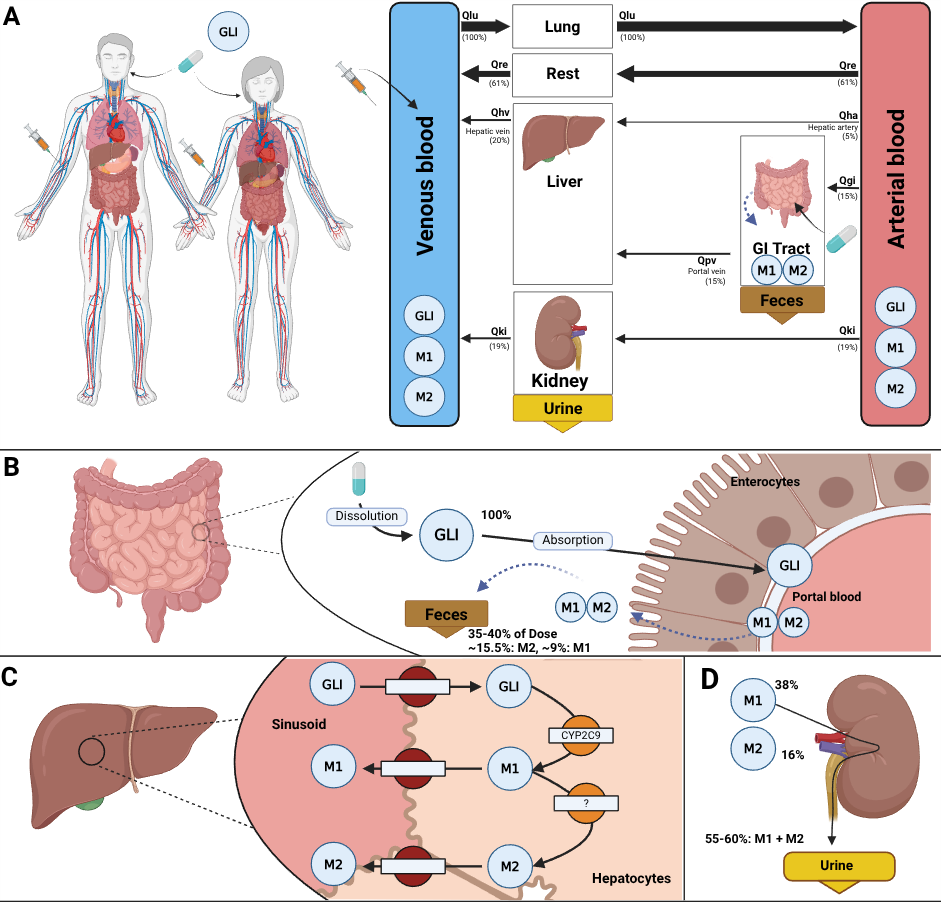
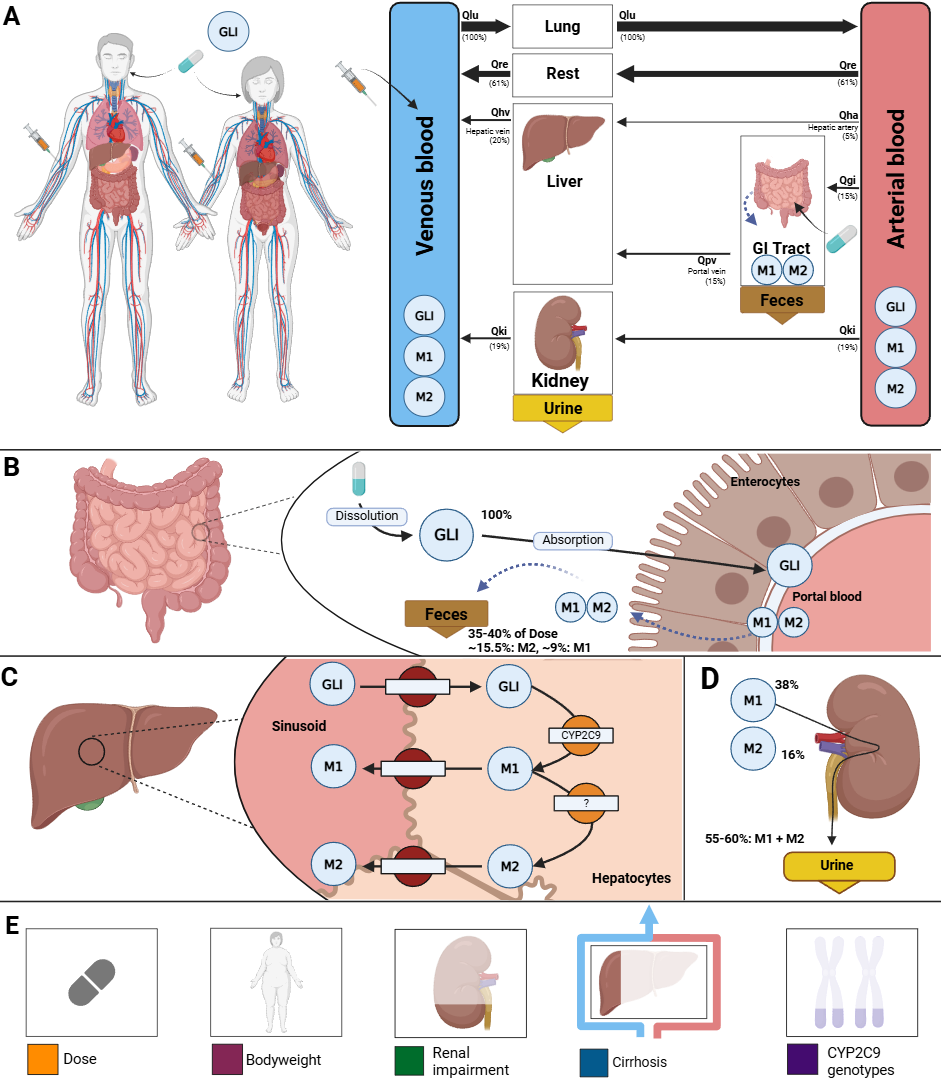
Work on layout

diff --git a/src/app.py b/src/app.py
@@ -4,19 +4,14 @@ import marimo
 
 __generated_with = "0.13.15"
 app = marimo.App(
-    app_title="Glimepiride Digital Twin",
+    width="full",
+    app_title="Glimepiride Webapp",
     layout_file="layouts/app.grid.json",
 )
 
 with app.setup:
     import marimo as mo
     import pandas as pd
-    import numpy as np
-    mo.md("""
-          <h1 style="margin-bottom: 5px;"><b>Glimepiride Digital Twin</b></h1>
-          <h3 style="margin-top: 0;">A simulation tool for exploring patient-specific pharmacokinetics.</h3>
-          """
-          )
 
 
 @app.cell
@@ -185,7 +180,6 @@ def cyp2c9_allele_sliders(
         stop=100,
         value=allele1_activity(),
         step=1.0,
-        label="CYP2C9 Allele 1 Activity [%]",
         on_change=set_allele1_activity
     )
 
@@ -194,7 +188,6 @@ def cyp2c9_allele_sliders(
         stop=100,
         value=allele2_activity(),
         step=1.0,
-        label="CYP2C9 Allele 2 Activity [%]",
         on_change=set_allele2_activity
     )
 
@@ -208,7 +201,6 @@ def cirrhosis_slider(cirrhosis_degree, set_cirrhosis_degree):
         stop=0.95,
         value=cirrhosis_degree(),
         step=0.01,
-        label="Cirrhosis Degree [-]",
         on_change=set_cirrhosis_degree
     )
 
@@ -222,7 +214,6 @@ def crcl_slider(crcl_value, set_crcl_value):
         stop=110,
         value=crcl_value(),
         step=1.0,
-        label="Creatinine Clearance [mL/min]",
         on_change=set_crcl_value
     )
     return (crcl,)
@@ -236,7 +227,6 @@ def dose_slider(dose_value, set_dose_value):
         value=dose_value(),
         on_change=set_dose_value,
         step=1.0,
-        label="Glimepiride Dose [mg]"
     )
     return (PODOSE_gli,)
 
@@ -248,7 +238,6 @@ def bodyweight_slider(bw_value, set_bw_value):
         stop=170.0,
         value=bw_value(),
         on_change=set_bw_value,
-        label="Bodyweight [kg]"
     )
 
     return (BW,)
@@ -418,18 +407,51 @@ def display_with_tabs(
     renal_impairment_dropdown,
     saved_patients,
 ):
+    # Fixed width for all labels
+    label_style = {"width": "240px", "text-align": "right", "padding-right": "30px"}
+
     # Input Patient Data
     input_patient_content = mo.vstack([
-        PODOSE_gli,
-        BW,
+
+        mo.md("####**Anthropometrics & Dose**"),
+
+        mo.hstack([
+            mo.md("Glimepiride Dose [mg]").style(label_style),
+            PODOSE_gli.style({"width": "550px"})
+        ], align="center", gap=0),
+
+        mo.hstack([
+            mo.md("Bodyweight [kg]").style(label_style),
+            BW.style({"width": "550px"})
+        ], align="center", gap=0),
 
         mo.md("####**Organ Function**"),
-        mo.hstack([crcl, renal_impairment_dropdown], gap=5),
-        mo.hstack([f_cirrhosis, cirrhosis_dropdown], gap=5),
+
+        mo.hstack([
+            mo.md("Creatinine Clearance [mL/min]").style(label_style),
+            crcl.style({"width": "360px"}),
+            renal_impairment_dropdown
+        ], align="center", gap=0),
+
+        mo.hstack([
+            mo.md("Cirrhosis Degree [-]").style(label_style),
+            f_cirrhosis.style({"width": "390px"}),
+            cirrhosis_dropdown
+        ], align="center", gap=0),
 
         mo.md("####**CYP2C9 Genotype**"),
-        mo.hstack([cyp2c9_allele1_slider, cyp2c9_allele1_dropdown], gap=5),
-        mo.hstack([cyp2c9_allele2_slider, cyp2c9_allele2_dropdown], gap=5)
+
+        mo.hstack([
+            mo.md("CYP2C9 Allele 1 Activity [%]").style(label_style),
+            cyp2c9_allele1_slider.style({"width": "440px"}),
+            cyp2c9_allele1_dropdown
+        ], align="center", gap=0),
+
+        mo.hstack([
+            mo.md("CYP2C9 Allele 2 Activity [%]").style(label_style),
+            cyp2c9_allele2_slider.style({"width": "440px"}),
+            cyp2c9_allele2_dropdown
+        ], align="center", gap=0)
     ])
 
     # Example Patients table
@@ -465,12 +487,12 @@ def display_with_tabs(
 
     mo.md(
         f"""
-        ## **Patient Configuration**
+        ## **Patient**
         {patient_tabs}
         """
     ).style({
-        "background-color": "#fafbfc",  # Lighter grey background
-        "border": "1px solid #f0f0f0",  # Lighter border
+        "background-color": "#fafbfc",
+        "border": "1px solid #f0f0f0",
         "border-radius": "8px",
         "padding": "20px",
         "margin": "10px 0"
@@ -500,8 +522,8 @@ def plots(df, labels):
 
     pio.renderers.default = None # Fix renderer issue
 
-    height = 300
-    width = 350
+    height = 340
+    width = 380
 
     fig1 = px.line(df, x="time", y="[Cve_gli]", title=None, labels=labels, markers=False, range_y=[0, 1], range_x=[0, 25], height=height, width=width)
     fig2 = px.line(df, x="time", y="[Cve_m1]", title=None, labels=labels, markers=False, range_y=[0, 0.2], range_x=[0, 25], height=height, width=width)
@@ -538,60 +560,64 @@ def plots(df, labels):
         fig.update_traces(line_width=3)
 
     mo.vstack([
-        mo.md("#### **Pharmacokinetic Profiles**"),
         mo.vstack([
             mo.hstack([fig1, fig2], gap=0),
             mo.hstack([fig3, fig4], gap=0)
-        ])
+        ], gap=0)
     ])
 
     return
 
 
 @app.cell
-def model_image(Path):
+def model_display(Path):
     model_img_path = Path(__file__).parent.parent / "model" / "glimepiride_model.png"
-    mo.image(src=str(model_img_path))
-    return
 
+    image = mo.image(src=str(model_img_path))
 
-@app.cell
-def model_description():
-    mo.md(
+    description = mo.md(
         """
-    ####**Whole-body PBPK model of glimepiride.** </br>
-    **A)** Whole-body model illustrating glimepiride (GLI) administration, its systemic circulation via venous and arterial blood, and the key organs (liver, kidney, GI tract) involved in GLI metabolism, distribution, and excretion.
-    **B)** Intestinal model showing dissolution and absorption of GLI by enterocytes. No enterohepatic circulation of M1 and M2 is assumed, but reverse transport via enterocytes is included.
-    **C)** Hepatic model depicting CYP2C9-mediated metabolism of GLI to M1 and M2.
-    **D)** Renal model highlighting the elimination of M1 and M2 via urine; unchanged GLI is not excreted renally.
+    #**Glimepiride Digital Twin** </br>
+    ###**Whole-body PBPK Model**</br>
+    **A)** Whole-body PBPK model illustrating glimepiride (GLI) administration, its systemic circulation via venous and arterial blood, and the key organs (liver, kidney, GI tract) involved in GLI metabolism, distribution, and excretion.</br>
+    **B)** Intestinal model showing dissolution and absorption of GLI by enterocytes. No enterohepatic circulation of M1 and M2 is assumed, but reverse transport via enterocytes is included.</br>
+    **C)** Hepatic model depicting CYP2C9-mediated metabolism of GLI to M1 and M2.</br>
+    **D)** Renal model highlighting the elimination of M1 and M2 via urine; unchanged GLI is not excreted renally.</br>
+    **E)** Key factors influencing glimepiride disposition accounted for by the model: administered dose, bodyweight, renal impairment, liver function (cirrhosis), and CYP2C9 genotypes.</br>
     """
     )
-    return
 
-
-@app.cell
-def disclaimer():
-    mo.md(
+    reference = mo.md(
         """
-    <h2 style="color: #666666;"><b>Disclaimer</b></h2>
-    <div style="color: #666666;">
-    The software is provided <b>AS IS</b>, without warranty of any kind, express or implied, including but not limited to the warranties of merchantability, fitness for a particular purpose and noninfringement. In no event shall the authors or copyright holders be liable for any claim, damages or other liability, whether in an action of contract, tort or otherwise, arising from, out of or in connection with the software or the use or other dealings in the software.<br>
-    This software is a <b>research proof-of-principle</b> and not fit for any clinical application. It is not intended to diagnose, treat, or inform medication dosing decisions. Always consult with qualified healthcare professionals for medical advice and treatment planning.
-    </div>
-    """
-    )
+        <div style="color: #888888;">
+        <h3 style="color: #888888;"><b>Reference</b></h3>
+        <b>A Digital Twin of Glimepiride for Personalized and Stratified Diabetes Treatment.</b><br>
+        <i>Michelle Elias, Matthias König (2025)</i><br>
+        Preprints 2025, 2025061264. (preprint). <a href="https://doi.org/10.20944/preprints202506.1264.v1">doi:10.20944/preprints202506.1264.v1</a>
+        </div>
+        """
+        )
+
+
+    mo.hstack([
+        image.style({"flex": "0 0 22%"}),
+        mo.vstack([description, reference]).style({"flex": "1 1 60%"})
+    ], gap=2)
+
+
     return
 
 
 @app.cell
-def reference():
+def reference_and_disclaimer():
     mo.md(
         """
     <hr style="margin-bottom: 10px;">
-    <h2 style="margin-top: 0;"><b>Reference</b></h2>
-    <b>A Digital Twin of Glimepiride for Personalized and Stratified Diabetes Treatment.</b><br>
-    <i>Michelle Elias, Matthias König (2025)</i><br>
-    Preprints 2025, 2025061264. (preprint). <a href="https://doi.org/10.20944/preprints202506.1264.v1">doi:10.20944/preprints202506.1264.v1</a>
+    <h2 style="color: #888888;"><b>Disclaimer</b></h2>
+    <div style="color: #888888;">
+    The software is provided <b>AS IS</b>, without warranty of any kind, express or implied, including but not limited to the warranties of merchantability, fitness for a particular purpose and noninfringement. In no event shall the authors or copyright holders be liable for any claim, damages or other liability, whether in an action of contract, tort or otherwise, arising from, out of or in connection with the software or the use or other dealings in the software.<br>
+    This software is a <b>research proof-of-principle</b> and not fit for any clinical application. It is not intended to diagnose, treat, or inform medication dosing decisions. Always consult with qualified healthcare professionals for medical advice and treatment planning.
+    </div>
     """
     )
     return
@@ -708,7 +734,6 @@ def pk_table_display(pk_results):
 
     mo.md(
         f"""
-        ####**Pharmacokinetic Parameters**
         {mo.ui.table(
             display_data,
             show_column_summaries=False,
